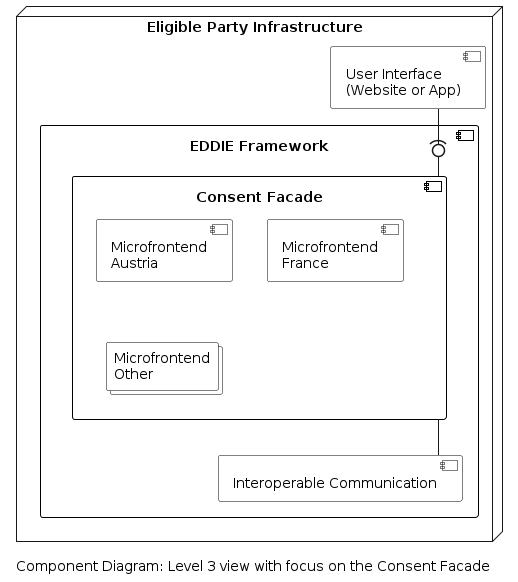
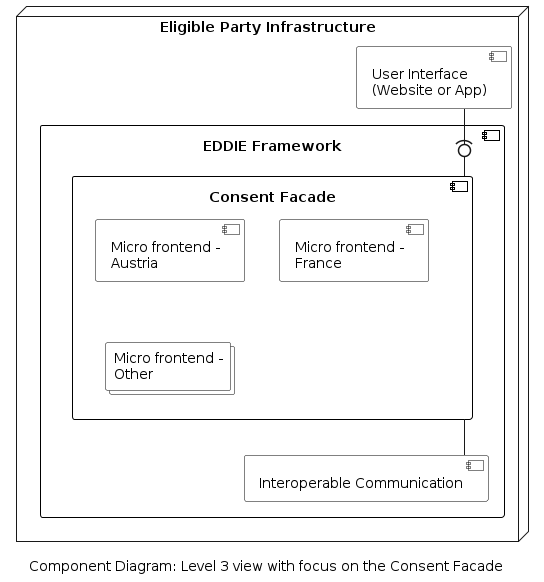
Add level 3 and level 4 block view

diff --git a/arc42/05-building-block-view/index.md b/arc42/05-building-block-view/index.md
@@ -65,7 +65,7 @@ The Level 1 view includes the following interfaces.
 
 ### Black Boxes
 
-| Component | Function |
+| Component | Responsibility |
 | - | - |
 | Regional Data-sharing Infrastructure | Operated by the utility provider or a metered data administrator. It is used only through the interfaces (described above). |
 | Smart meter | Provided by the utility provider. Is is used only through the interface (described above). |
@@ -107,25 +107,64 @@ The Level 2 view introduces the following interfaces.
 | Streaming Infrastructure | Services | Kafka | [Link](./data-models/data-model-data-broker-interface/data-model-data-broker-interface.md) |
 | Interoperable Communication | AIIDA | Kafka | [Link](./data-models/data-model-inter-comm-aiida-interface/data-model-inter-comm-aiida-interface.md) |
 
-### Black Boxes
 
-No introduced black boxes in Level 2.
+## Level 3
 
+The Level 3 view includes the internal structure of some components from Level 2.
 
+### Contained Building Blocks
+
+#### Consent Facade
+
+The internal structure of the Consent Facade component is shown below. The Consent Facade is a collection of [micro frontends](../08-crosscut-concepts/architectural-patterns/micro-frontends/micro-frontends.md). Each micro frontend provides the necessary frontend elements to collect the required information for acquiring the consumer consent in a specific country.
 
 <div align="center">
 <img src="./figures/component-diagram-level-3-consent-facade.png" width="500">
 </div>
 
+The included components are the following.
+
+| Component | Responsibility |
+| - | - |
+| Micro Frontend | Provides the necessary frontent elements to the EP Website. Since every country may require different information for establishing consent, one micro frontent component is needed for each supported country. |
+
+
+#### Interoperable Communication
+
+The internal structure of the Interoperable Communication component is shown below. The Interoperable Communication is a collection of regional connectors. Each regional connector implements the functionality to access the APIs of the Regional Data-sharing Infrastructure of a specific country.
+
 <div align="center">
 <img src="./figures/component-diagram-level-3-inter-comm.png" width="700">
 </div>
 
+The included components are the following.
+
+| Component | Responsibility |
+| - | - |
+| Regional Connector | Implements the functionality to access the APIs of a country-specific Regional Data-sharing Infrastructure, e.g., to request the consent of the consumer. |
+| Message Producer  | Receives energy data from a regional connector and publishes it to the Streaming Infrastructure. |
+
+## Level 4
+
+The Level 4 view includes the internal structure of some components from Level 3.
+
+### Contained Building Blocks
+
+#### Regional Connector - Austria
+
+The internal structure of the Regional Connector - Austria is shown below. 
+
 <div align="center">
-<img src="./figures/component-diagram-level-4-reg-con-AT.png" width="700">
+<img src="./figures/component-diagram-level-4-reg-con-AT.png" width="750">
 </div>
 
+The included components are the following.
 
+| Component | Responsibility |
+| - | - |
+| Translation Service | Receives the required information of the consumer from the Consent Facade and translates it to appropriate format. |
+| Ponton XP Messenger  | This is a messaging solution by [Ponton GmbH](https://www.ponton.de/ponton-xp) for communication with the Regional Data-sharing Infrastructure in Austria which is called [EDA](https://www.eda.at/?lang=en). |
+| Ponton Adapter | Translates infromation to/from the formats used by Ponton XP Messenger. |
 
 
 <!-- ## Level 3
